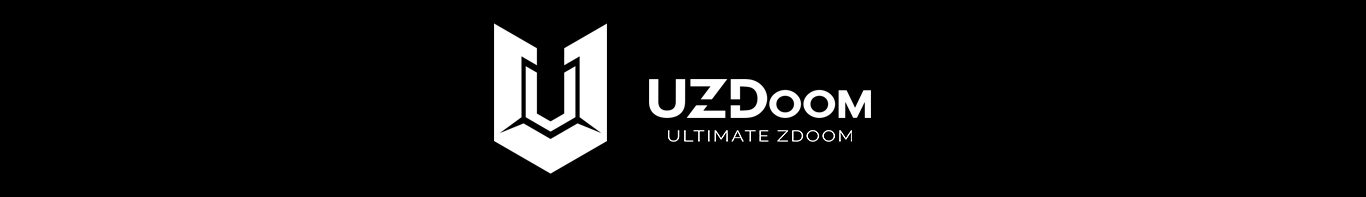
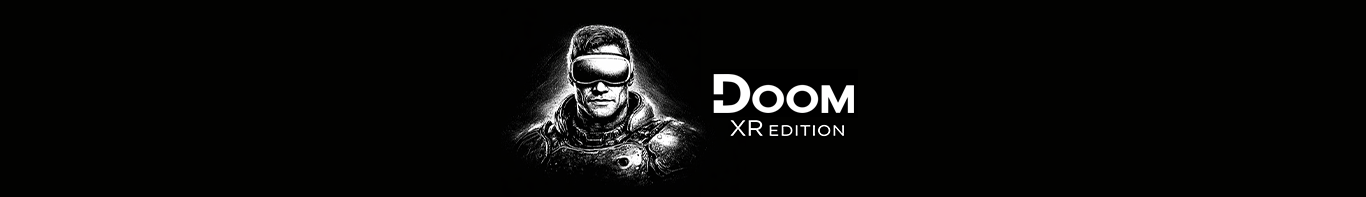
rebrand engine as DoomXR
- renamed the exe and pk3 file as doomxr
- rebranded the application name, banner and boot logo to Doom XR

Changed region(s): [[0.3382, 0.1218, 0.6457, 0.9137]]

diff --git a/src/version.h b/src/version.h
@@ -98,9 +98,9 @@ const char *GetVersionString();
 #endif
 
 #ifdef __ANDROID__
-#define BASEWAD "res/uzdoom.pk3"
+#define BASEWAD "res/doomxr.pk3"
 #else
-#define BASEWAD "uzdoom.pk3"
+#define BASEWAD "doomxr.pk3"
 #endif
 // Set OPTIONALWAD to "" (null) to disable searching for it
 #define OPTIONALWAD "game_support.pk3"
@@ -109,10 +109,10 @@ const char *GetVersionString();
 #define VR3D_ENABLED
 
 // More stuff that needs to be different for derivatives.
-#define GAMENAME "UZDoom"
-#define WGAMENAME L"UZDoom"
-#define GAMENAMELOWERCASE "uzdoom"
-#define APPID "org.zdoom.UZDoom"
+#define GAMENAME "DoomXR"
+#define WGAMENAME L"DoomXR"
+#define GAMENAMELOWERCASE "doomxr"
+#define APPID "org.zdoom.DoomXR"
 #define QUERYIWADDEFAULT true
 #define FORUM_URL "http://forum.zdoom.org/"
 #define BUGS_FORUM_URL	"http://forum.zdoom.org/viewforum.php?f=2"

diff --git a/README.md b/README.md
@@ -1,9 +1,34 @@
-# Welcome to UZDoom!
+![Doom XR Edition](https://github.com/iAmErmac/DoomXR/blob/doomxr/branding/banner.png)
+# DoomXR is a VR port based on QuestZDoom and UZDoom!
 
-[![Continuous Integration](https://github.com/UZDoom/UZDoom/actions/workflows/continuous_integration.yml/badge.svg)](https://github.com/UZDoom/UZDoom/actions/workflows/continuous_integration.yml)
+[![Continuous Integration](https://github.com/iAmErmac/DoomXR/actions/workflows/continuous_integration.yml/badge.svg)](https://github.com/iAmErmac/DoomXR/actions/workflows/continuous_integration.yml)
 [![Translation status](https://hosted.weblate.org/widget/uzdoom/svg-badge.svg)](https://hosted.weblate.org/engage/uzdoom/)
 
-## UZDoom is a modder-friendly OpenGL and Vulkan source port based on the DOOM engine
+Built/tested on HP Reverb and Oculus Quest using Virtual Desktop but other VR setups should work as long they are compatible with OpenVR API.
+
+This build exposes OpenVR controller input for definition (you will need to define the controls). Both hands are tracked for the weapons.
+
+## Controller Info
+### Index Controllers
+To get the most out of your Index Controllers, choose the Community Binding "Index Controller Bindings" by gameflorist in SteamVR. It makes the maximum buttons available for binding in DoomXR.
+
+## Mods
+There are some optional mods tested for using with this fork
+
+- https://github.com/hh79/gz3doom/files/4378108/HDVRweapons.zip HD weapon pack made by ajantaju
+
+- https://github.com/ajantaju/br_vr weapon pack made for Brutal Doom
+
+- https://github.com/dxt121730/BD64Weapons weapon pack for Brutal Doom 64 by dxt121730
+
+- https://github.com/mmaulwurff/laser-sight/releases laser sight mod, you need this for aiming
+
+- https://github.com/iAmErmac/Virtual-Tactical-Vest adds a virtual vest with weapon slots by iAmErmac
+
+- https://www.moddb.com/downloads/doom-neural-upscale-2x texture upscale mod
+
+- https://forum.zdoom.org/download/file.php?id=30459&sid=df63736751c12c3ebb76230d1dc86543 blood color fixer mod
+---
 
 Copyright (c) 1998-2025 ZDoom + GZDoom + UZDoom teams, and contributors
 
@@ -34,3 +59,12 @@ Build For [Windows](https://github.com/UZDoom/UZDoom/wiki/Compilation#windows).
 - https://dsc.gg/zdoom - Discord Server
 
 [![Translation status](https://hosted.weblate.org/widget/uzdoom/open-graph.png)](https://hosted.weblate.org/engage/uzdoom/)
+
+---
+
+# Credits
+- [ZDoom + GZDoom + UZDoom teams](https://zdoom.org/) - The team behind the engine this based upon
+- [Emile Belanger](http://www.beloko.com/) - The developer behind the android port
+- [Team Beef](https://github.com/Team-Beef-Studios) - For the awesome work behind the VR port for the Oculus Quest device
+- [Emanuele Disco](https://github.com/emawind84) - QuestZDoom PCVR port and QoL performance/dual wielding/integrated mod loader and much more extended features on his QuestZDoom fork
+- [Ermac](https://github.com/iAmErmac/) - DoomXR port based on QuestZDoom fork by Emanuele Disco
